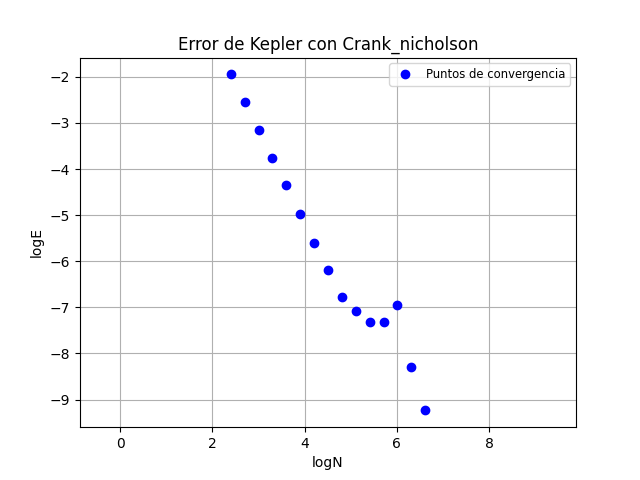
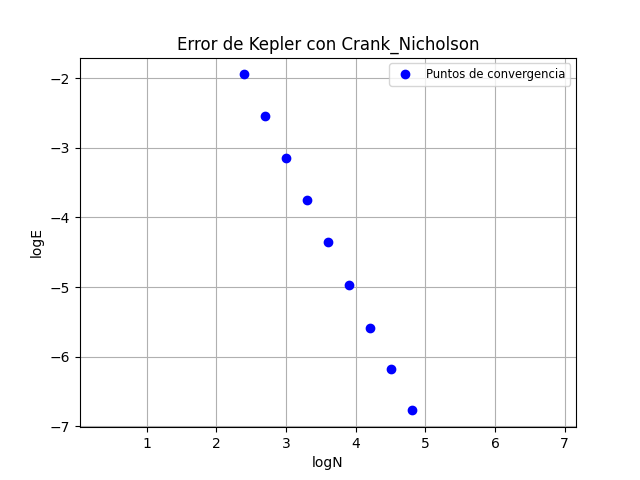
Convergencia def

diff --git a/PYTHON/Milestone 3/Milestone_3.py b/PYTHON/Milestone 3/Milestone_3.py
@@ -7,7 +7,7 @@ import matplotlib.pyplot as plt
 
 t0 = 0
 tf = 20
-N = 150
+N = 250
 
 t = linspace(t0, tf, N+1)
 
@@ -45,21 +45,25 @@ if esquema == "EE":
 
     Esquema = Euler
     q = 1
+    N_pts = 10
 
 elif esquema == "RK4":
 
     Esquema = RK4
     q = 4
+    N_pts = 7
 
 elif esquema == "EI":
 
     Esquema = Euler_implicito
     q = 1
+    N_pts = 10
 
 elif esquema == "CN":
 
     Esquema = Crank_Nicholson
     q = 2
+    N_pts = 9
 
 else:
 
@@ -97,11 +101,11 @@ if apartado == "Error":
 
 elif apartado == "Convergencia":
 
-    logN, logE = Convergencia(Esquema, U0, Problema, t, Cauchy_error2, Cauchy) # Ajustar N en función del esquema para ver únicamente la parte recta
+    logN, logE = Convergencia(Esquema, U0, Problema, t, Cauchy_error2, Cauchy,N_pts) # Ajustar N en función del esquema para ver únicamente la parte recta
 
-    # coef = polyfit(logN, logE, 1)
-    # m, b = coef
-    # y_fit = m * logN + b
+    coef = polyfit(logN, logE, 1)
+    m, b = coef
+    y_fit = m * logN + b
 
     plt.figure()
     plt.axis('equal')
@@ -109,7 +113,7 @@ elif apartado == "Convergencia":
     plt.xlabel('logN')
     plt.ylabel('logE')
     plt.plot(logN, logE, 'bo', label='Puntos de convergencia')
-    # plt.plot(logN, y_fit, '-r', label=f'Regresión Lineal: y = {m:.2f}x + {b:.2f}')
+    # plt.plot(logN, y_fit, '-r', label=f'Regresión Lineal: y = {m:.1f}x + {b:.1f}')
     plt.legend(loc='upper right',fontsize='small')
     plt.grid()
     plt.show()

diff --git a/PYTHON/Milestone 3/Funciones.py b/PYTHON/Milestone 3/Funciones.py
@@ -78,7 +78,7 @@ def Euler_implicito(U, dt, t, F):
 
         return X - U - dt*F(X,t)
 
-    return newton(G, U, maxiter=1500)
+    return newton(G, U, maxiter=3000)
 
 ######### RUNGE-KUTTA #########
 
@@ -242,7 +242,7 @@ def Cauchy_error2(Esquema, U0, F, t):
 
 ######### CONVERGENCIA #########
 
-def Convergencia(Esquema, U0, F, t, Error, Cauchy):
+def Convergencia(Esquema, U0, F, t, Error, Cauchy, Ptosgraf):
 
     '''''''''''
     Inputs:
@@ -256,13 +256,12 @@ def Convergencia(Esquema, U0, F, t, Error, Cauchy):
 
     '''''''''''
 
-    ptosgraf = 15
-    logE = zeros(ptosgraf)
-    logN = zeros(ptosgraf)
+    logE = zeros(Ptosgraf)
+    logN = zeros(Ptosgraf)
     t1 = t
     N = len(t)-1
     
-    for n in range(ptosgraf):
+    for n in range(Ptosgraf):
         
         E = Error(Esquema, U0, F, t1)
         logE[n] = log10(norm(E[-1, :]))
